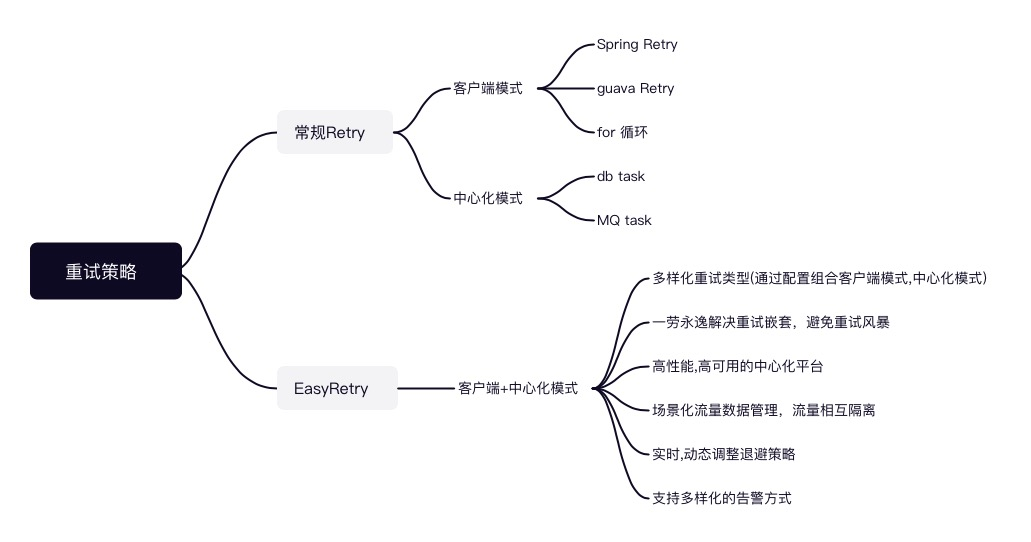
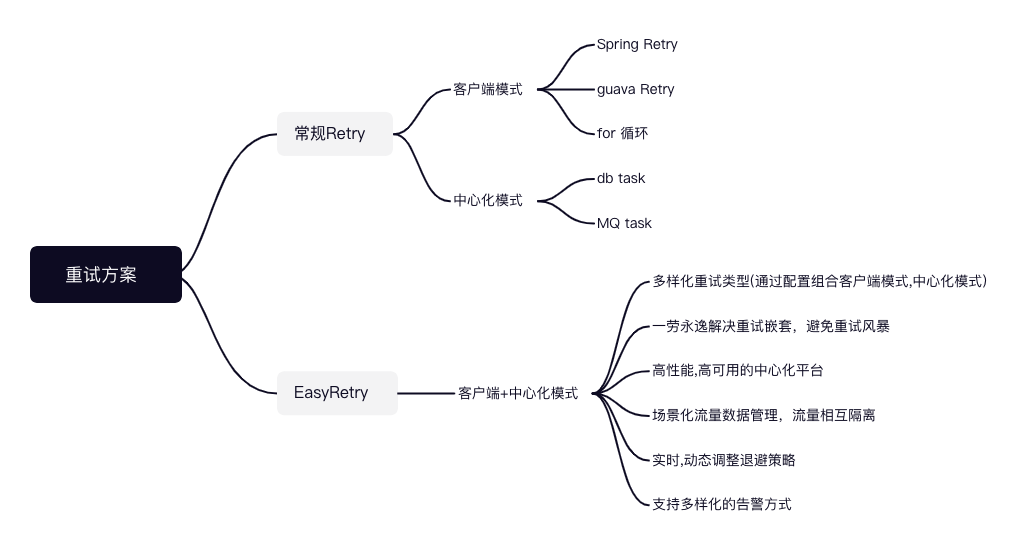
feat: 2.1.0 发布2.1.0

diff --git a/docs/.vuepress/components/Notice.vue b/docs/.vuepress/components/Notice.vue
@@ -6,7 +6,7 @@ export default {
   data() {
     return {
       // 发布新版本需要更新
-      version: '2.0.3'
+      version: '2.1.0'
     };
   },
   mounted() {
@@ -27,8 +27,11 @@ export default {
       description: (
           <span>
               <ul>
-                <li>修复回调状态错误问题【BUG】<a href="https://gitee.com/aizuda/easy-retry/issues/I7NHFE">issues</a></li>
-                <li>优化定时处理重试完成和重试最大次数的数据</li>
+                <li>【新增】增批量新增任务功能<a href="https://gitee.com/aizuda/easy-retry/issues/I7JOPV">issues</a></li>
+                <li>【新增】客户端支持yml、JVM参数和自动获取IP和端口三种方式 <a href="https://gitee.com/aizuda/easy-retry/issues/I7M0II">issues</a></li>
+                <li>【优化】netty服务端接收请求改为actor模型 <a href="https://gitee.com/aizuda/easy-retry/issues/I7N9D5">issues</a></li>
+                <li>【优化】优化调度日志信息 <a href="https://github.com/aizuda/easy-retry/issues/1">issues</a></li>
+                <li>【优化】组配置添加字段说明文档 <a href="https://github.com/aizuda/easy-retry/issues/2">issues</a></li>
               </ul>
               <a href="/pages/bbdaf6/">更多信息</a>
             </span>

diff --git a/docs/12.更新日志/01.更新日志.md b/docs/12.更新日志/01.更新日志.md
@@ -4,11 +4,31 @@ date: 2023-05-31 23:19:06
 permalink: /pages/bbdaf6/
 ---
 
-## v2.0.3(2023-07-10)
+## v2.1.0 (2023-08-04)
+1. 新增批量新增任务功能【**新增**】[issues](https://gitee.com/aizuda/easy-retry/issues/I7JOPV)
+2. 重构了新增任务模型，支持客户端上报、控制台手动新增和单个新增等多种模式 【**优化**】
+3. 修改getBlacklist NPE问题 【BUG】
+4. 删除hibernate-validator包使用spring-boot-starter-validation 【**优化**】
+5. 优化调度日志信息 【**优化**】[issues](https://github.com/aizuda/easy-retry/issues/1)
+6. 修复JacksonSerializerNPE问题 【BUG】
+7. 客户端支持yml、JVM参数和自动获取IP和端口三种方式 [issues](https://gitee.com/aizuda/easy-retry/issues/I7M0II) 【**新增**】
+8. 废弃shedlock组件 [issues](https://gitee.com/aizuda/easy-retry/issues/I7JORT) 【**优化**】
+9. 数据上报使用横向数据结构实现滑动窗口替换环形滑动窗口 【**优化**】
+10. netty服务端接收请求改为actor模型 【**优化**】[issues](https://gitee.com/aizuda/easy-retry/issues/I7N9D5)
+11. 重试任务和回调任务扫描改为以id作为偏移进行滚动扫描 【**优化**】
+12. 客户端回调接口支持SpringBean和普通类模式 【**优化**】
+13. 负载均衡器新增负载均衡周期时间配置 【**优化**】
+14. 优化NettyServer启动失败主线程无感知问题 [issues](https://gitee.com/aizuda/easy-retry/issues/I7N9CW)
+15. 组配置添加字段说明文档 [issues](https://github.com/aizuda/easy-retry/issues/2)
+> 升级指南
+1. 第一种升级方式: 将shedlock表名改为distributed_lock
+2. 第二种升级方式: 将DistributedLock类上的`@TableName("distributed_lock")`改为`@TableName("shedlock")`
+
+## v2.0.3(2023-07-27)
 1. 修复回调状态错误问题【BUG】【[issues](https://gitee.com/aizuda/easy-retry/issues/I7NHFE)】
 2. 优化定时处理重试完成和重试最大次数的数据
 
-## v2.0.2(2023-07-10)
+## v2.0.2(2023-07-18)
 1. 修复没有配置组时获取场景黑名单NPE问题 【BUG】
 2. 修复不同组的ScanActor生成相同对象问题 【BUG】
 

diff --git a/docs/index.md b/docs/index.md
@@ -30,7 +30,7 @@ postList: none
 <dependency>
     <groupId>com.aizuda</groupId>
     <artifactId>easy-retry-client-starter</artifactId>
-    <version>2.0.3</version>
+    <version>2.1.0</version>
 </dependency>
 ```
 
@@ -70,7 +70,7 @@ postList: none
 <br/>
 <br/>
 
-## <EasyRetryIcon iconType='icon-duibi' /> 重试策略
+## <EasyRetryIcon iconType='icon-duibi' /> 重试方案对比
 
 <img :src="$withBase('/img/retry-strategy.png')" class="no-zoom" style="zoom: 100%;">
 

diff --git a/docs/08.文档/02.v2.0.x文档/020.使用说明/02.服务部署.md b/docs/08.文档/02.v2.0.x文档/020.使用说明/02.服务部署.md
@@ -61,7 +61,7 @@ java -jar easy-retry-server.jar
 ### docker 部署
 - 下载镜像
 ```
-docker pull byteblogs/easy-retry:2.0.3
+docker pull byteblogs/easy-retry:2.1.0
 ```
 
 - 创建容器并运行
@@ -77,7 +77,7 @@ docker run \
   -p 8080:8080 \
   -p 1788:1788 \
   --name easy-retry-server-1  \
-  -d byteblogs/easy-retry:2.0.3
+  -d byteblogs/easy-retry:2.1.0
 
 ```
 

diff --git a/docs/08.文档/02.v2.0.x文档/030.用户指北/01.HelloWorld.md b/docs/08.文档/02.v2.0.x文档/030.用户指北/01.HelloWorld.md
@@ -17,7 +17,7 @@ permalink: /pages/da9ecc/
     <dependency>
         <groupId>com.aizuda</groupId>
         <artifactId>easy-retry-client-starter</artifactId>
-        <version>2.0.3</version>
+        <version>2.1.0</version>
     </dependency>
 </dependencies>
 ```
